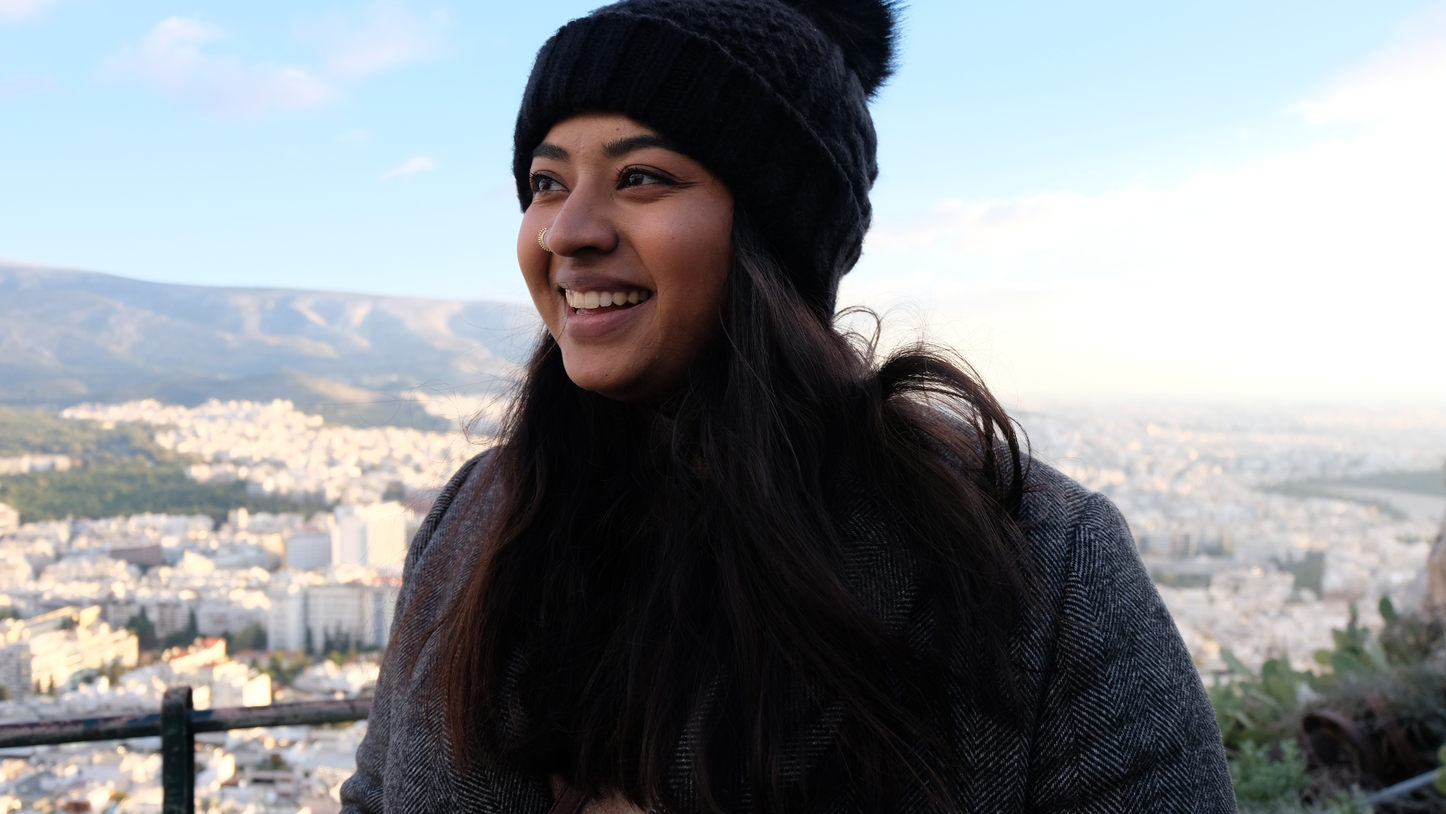
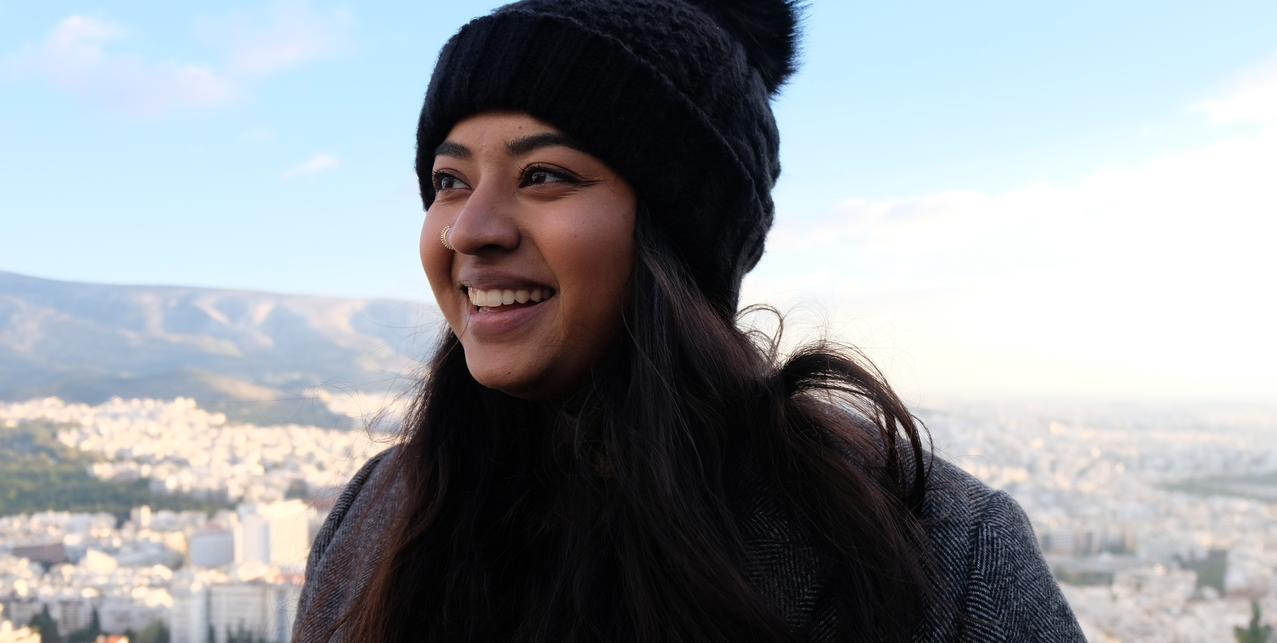
Add files via upload

diff --git a/css/style.css b/css/style.css
@@ -3,7 +3,7 @@ html{
   }
 
 body{
-    font-family: 'Montserrat';
+    font-family: 'Lato', sans-serif;
 }
 /* Skip to Main */
 .skip a{
@@ -130,7 +130,7 @@ header img{
 }
 
 .parallax-container {
-    background: url('../images/profile.jpg');
+    background-image: url('../images/profile.jpg');
     height: 300px;
     background-position: center;
     background-repeat: no-repeat;
@@ -167,8 +167,6 @@ input[type=submit] {
 .heading{
     text-align: center;
 }
-
-
 
 #page3 .gallery{
     padding-top: 15px;
@@ -344,12 +342,13 @@ footer .icons{
         overflow-y: scroll;
         margin-top: 30px;    
     }
+
     .parallax-container {
         display: flex;
         flex: 1 0 auto;
         position: relative;
         z-index: -1;
-        height: 100vh;
+        height: 80vh;
         justify-content: center;
         align-items: center;
         transform: translateZ(-1px) scale(2);
@@ -372,6 +371,7 @@ footer .icons{
         background-color: #ffffff;
         z-index: 1;
       }
+
     #page2 .more-work{
         grid-template-columns: 1fr 1fr 1fr;
         grid-template-rows: 1fr 1fr;
@@ -443,12 +443,6 @@ footer .icons{
     #page1 .card:hover{
         transform: none !important;
         transition: none !important;
-    }
-    
-    .card > .back{
-        flex-direction: column;
-        width: 300px;
-        text-align: center;
     }
     
 

diff --git a/index.html b/index.html
@@ -12,7 +12,7 @@
     </script>
     <meta charset="UTF-8">
     <link rel="stylesheet" type="text/css" href="css/style.css">
-    <link href="https://fonts.googleapis.com/css?family=Montserrat" rel="style">
+    <link href="https://fonts.googleapis.com/css?family=Muli&display=swap" rel="style">
     <link rel="icon" type="image/png" href="images/logo.png" alt="logo for Kaavya's portfolio"/>
     <title>Kaavya's Portfolio</title>
 </head>    

diff --git a/more.html b/more.html
@@ -12,7 +12,7 @@
     </script>
     <meta charset="UTF-8">
     <link rel="stylesheet" type="text/css" href="css/style.css">
-    <link href="https://fonts.googleapis.com/css?family=Montserrat" rel="style">
+    <link href="https://fonts.googleapis.com/css?family=Muli&display=swap" rel="style">
     <link rel="icon" type="image/png" href="images/logo.png" alt="logo for Kaavya's portfolio"/>
     <title>Kaavya's Portfolio</title>
 </head>    

diff --git a/resume.html b/resume.html
@@ -12,7 +12,7 @@
   </script>
     <meta charset="UTF-8">
     <link rel="stylesheet" type="text/css" href="css/style.css">
-    <link href="https://fonts.googleapis.com/css?family=Montserrat" rel="style">
+    <link href="https://fonts.googleapis.com/css?family=Muli&display=swap" rel="style">
     <link rel="icon" type="image/png" href="images/logo.png" alt="logo for Kaavya's portfolio"/>
     <title>Kaavya's Portfolio</title>
 </head>    

diff --git a/about.html b/about.html
@@ -12,7 +12,7 @@
 </script>
     <meta charset="UTF-8">
     <link rel="stylesheet" type="text/css" href="css/style.css">
-    <link href="https://fonts.googleapis.com/css?family=Montserrat" rel="style">
+    <link href="https://fonts.googleapis.com/css?family=Lato&display=swap" rel="style">
     <link rel="icon" type="image/png" href="images/logo.png" alt="logo for Kaavya's portfolio"/>
     <title>Kaavya's Portfolio</title>
 </head>    
